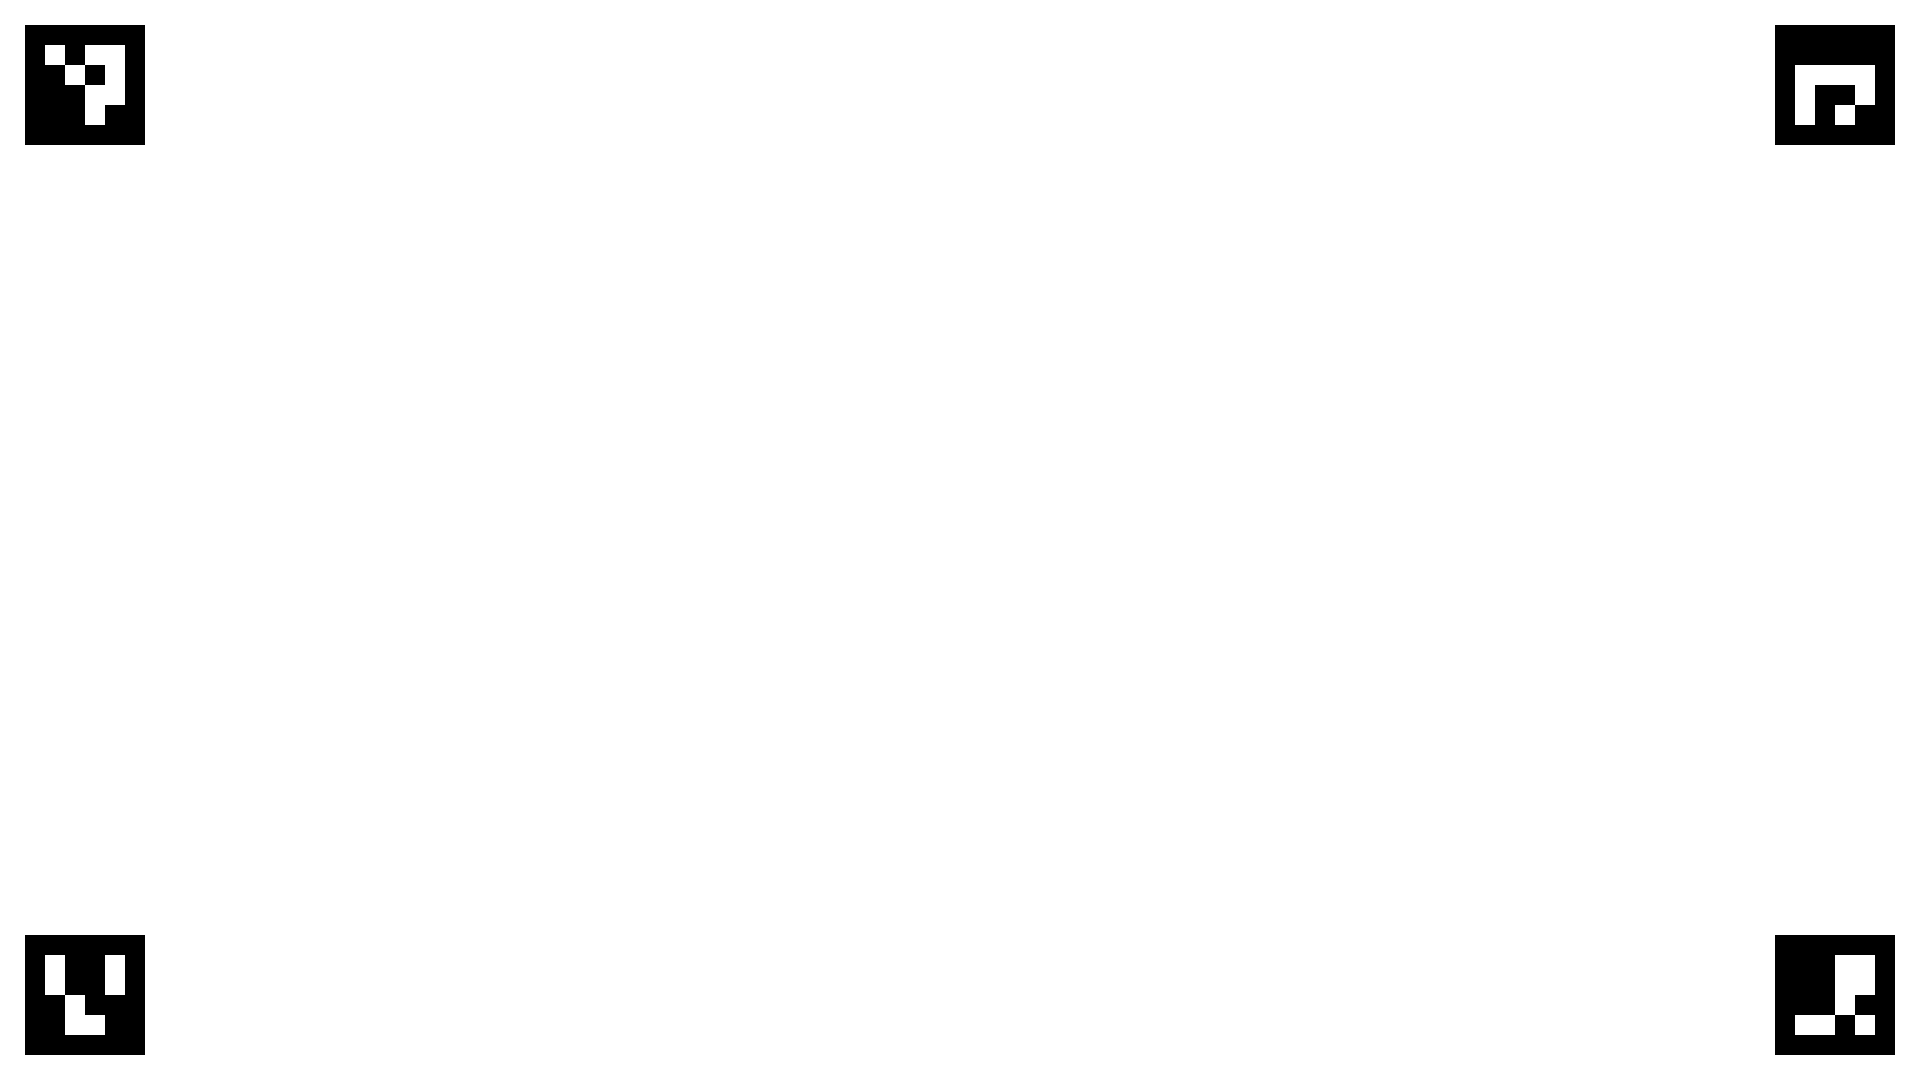
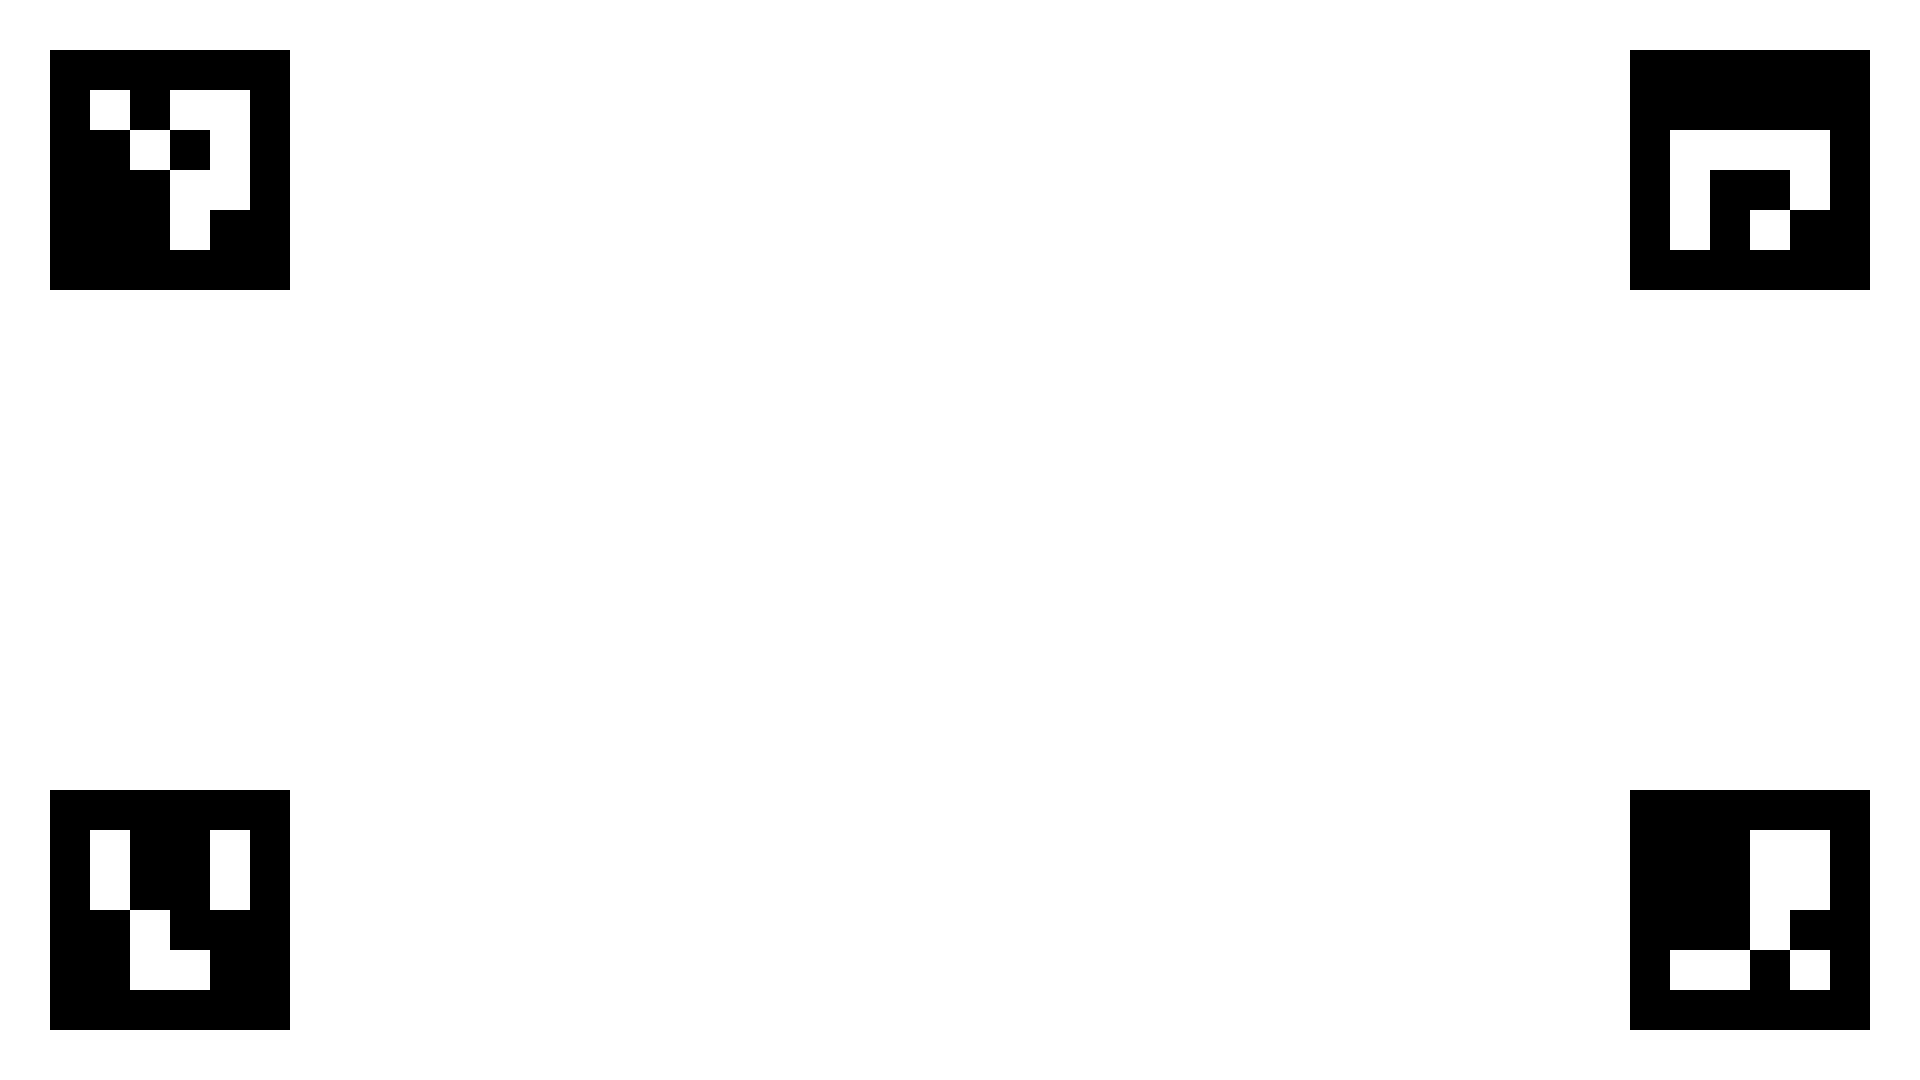
fixed last few problem

diff --git a/main.py b/main.py
@@ -11,7 +11,7 @@ from keyboard_vis_cv import animate, extract_events
 from utils import capture_img
 
 
-def setup_and_calibrate(test = True):
+def setup_and_calibrate(test = False):
     if test:
         image = cv2.imread('images/challenging_example.png')
         print("loaded images")
@@ -30,6 +30,9 @@ def setup_and_calibrate(test = True):
         image = cv2.resize(image, (int(width * scale_factor), int(height * scale_factor)))
         # Detect keyboard
         keyboard_contour = detect_keyboard_and_postprocess(image)
+        if keyboard_contour is None:
+            print("Error: Could not detect keyboard in the image.")
+            return None
         print("detected keyboard contour")
 
         if test:
@@ -41,14 +44,22 @@ def setup_and_calibrate(test = True):
             combined_image[offset[0]:offset[0]+marker_img.shape[0], offset[1]:offset[1]+marker_img.shape[1]] = combined_image[offset[0]:offset[0]+marker_img.shape[0], offset[1]:offset[1]+marker_img.shape[1]]*0.5 + marker_img*0.5
             combined_image = np.clip(combined_image, 0, 255)  # Ensure pixel values are within valid range
         else:
-            cv2.namedWindow(PianoKeyboardCV.WINNAME, cv2.WINDOW_NORMAL)          # create once, before first imshow
-            cv2.setWindowProperty(PianoKeyboardCV.WINNAME,
+            marker_img = cv2.resize(marker_img,( b_width, b_height))
+            cv2.namedWindow("Marker_img", cv2.WINDOW_NORMAL)          # create once, before first imshow
+            cv2.setWindowProperty("Marker_img",
                         cv2.WND_PROP_FULLSCREEN,
-                        cv2.WINDOW_FULLSCREEN)  
-            cv2.imshow(marker_img)
-            time.sleep(2.0)
+                        cv2.WINDOW_FULLSCREEN)
+            cv2.imshow("Marker_img",marker_img)
+            cv2.waitKey(1000)
             combined_image = capture_img()
+            cv2.waitKey(500)
+            cv2.destroyAllWindows()
 
+
+        #show combined image
+        cv2.imshow("Combined Image", combined_image)
+        cv2.waitKey(0)
+        cv2.destroyAllWindows()
         #detect the four markers in the image
         corners = detect_four_markers(combined_image)#,background_img=image*0.9)
         print("detected beamer view")

diff --git a/utils.py b/utils.py
@@ -1,27 +1,19 @@
 
 import cv2
+from config import *
 
-def capture_img():
-    # 1. Open a connection to the first camera (index 0).
-    cap = cv2.VideoCapture(0, cv2.CAP_DSHOW)   # on Linux/macOS you can omit cv2.CAP_DSHOW
+def capture_img(cam_index: int = WEBCAM_ID, backend = cv2.CAP_ANY):
+    # 1. Open the device in the constructor
+    cap = cv2.VideoCapture(cam_index, backend)
 
-    if not cap.isOpened():
-        print("Error: Cannot open camera")
-        return
-        #raise IOError("Cannot open camera")
+    if not cap.isOpened():          # <- returns immediately if the open failed
+        raise IOError(f"Cannot open camera (index {cam_index})")
 
     try:
-        # 2. Read one frame.
+        # 2. Grab one frame
         ret, frame = cap.read()
         if not ret:
             raise RuntimeError("Failed to grab frame")
-        # cap.release()
-        # cv2.destroyAllWindows()
-        # 3. Process or save the frame as needed.
-        return frame      # example: save to disk
-        # cv2.imshow("Current frame", frame)    # or display in a window
-        # cv2.waitKey(0)
-
+        return frame
     finally:
-        # 4. Release the camera and any OpenCV windows.
         cap.release()

diff --git a/transformations.py b/transformations.py
@@ -35,6 +35,9 @@ def detect_keyboard_and_postprocess(image, visualize = True, refine = True):
     # detects a keyboard from an overhead view as best as possible
     mask = detect_keyboard(image) # this is an image filled with 1s and 0s, where 1s are the pixels that are part of the keyboard
 
+    if np.sum(mask) == 0:
+        print("No keyboard detected in the image.")
+        return None
     #find the four edge points of the keyboard
     #first get all indices of the mask where the value is 1 and try out different rotations
     def find_keyboard_axis_aligned(mask):

diff --git a/config.py b/config.py
@@ -7,8 +7,8 @@ c_height = 1080
 c_width = 1920
 
 #marker parameters
-marker_px = 120  # side length of each marker, in pixels
-border_px = 25  # white border around every marker
+marker_px = 240  # side length of each marker, in pixels
+border_px = 50  # white border around every marker
 
 #keyboard parameters
 NUM_KEYS = 87  # number of keys on the keyboard
